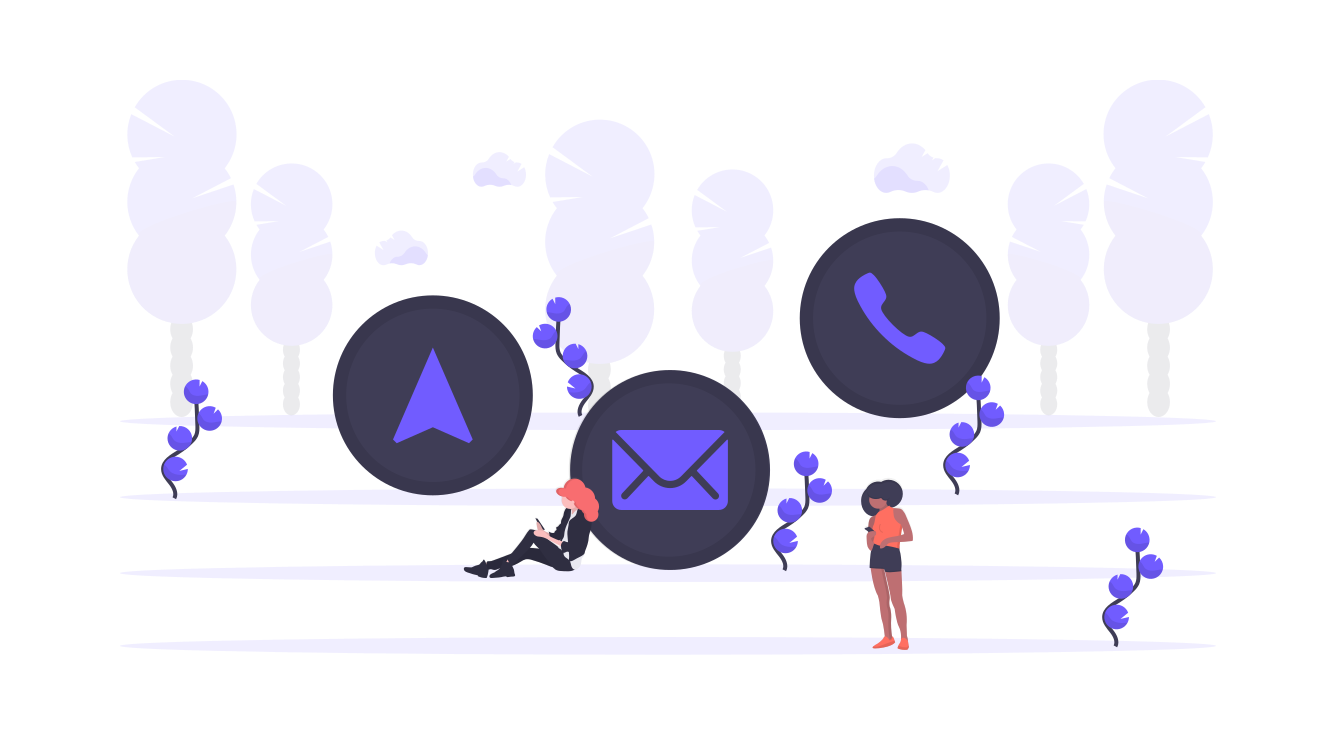
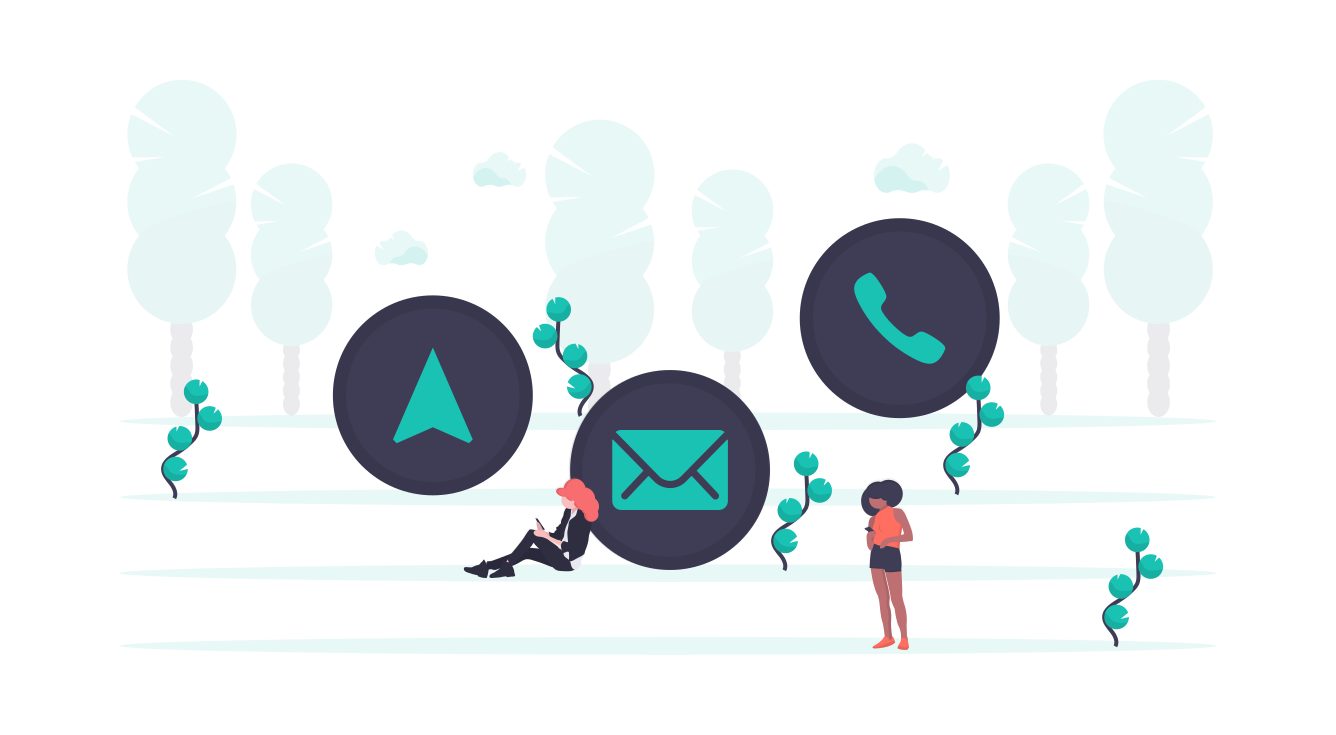
Color update for Telium and Tetra pages

diff --git a/screens/TetraGuide.js b/screens/TetraGuide.js
@@ -135,14 +135,14 @@ export default TetraCodeList = () => {
                 <View style={[styles.itemHeader]}>
                     <View style={styles.itemHeaderLeft}>
                         {
-                            item.is_telium ? <Text style={{ fontSize: 12, fontWeight: '500', color: Colors.fontColorWhite }}>ALSO SUPPORTED BY: </Text> :
-                                <Text style={{ fontSize: 12, fontWeight: '500', color: Colors.colorType1_1 }}>ALSO SUPPORTED BY: </Text>
+                            item.is_telium ? <Text style={{ fontSize: 12, fontWeight: '500', color: Colors.fontColorLightBlack }}>ALSO SUPPORTED BY: </Text> :
+                                <Text style={{ fontSize: 12, fontWeight: '500', color: Colors.colorType5_1 }}>ALSO SUPPORTED BY: </Text>
                         }
                         {/* {
                             item.is_tetra ? <Badge style={[styles.badge, { backgroundColor: Colors.colorType3_2 }]}>TETRA</Badge> : null
                         } */}
                         {
-                            item.is_telium ? <Badge style={[styles.badge, { backgroundColor: Colors.colorType4_2 }]}>TELIUM</Badge> : null
+                            item.is_telium ? <Badge style={[styles.badge, { backgroundColor: Colors.colorType2_1 }]}>TELIUM</Badge> : null
                         }
                     </View>
                     {/* <View style={styles.itemHeaderRight}>
@@ -274,7 +274,12 @@ const styles = StyleSheet.create({
         borderRadius: 10,
         padding: 10,
         margin: 5,
-        backgroundColor: Colors.colorType1_1,
+        backgroundColor: Colors.colorType5_1,
+        shadowColor: '#000',
+        shadowOffset: { width: 1, height: 1 },
+        shadowOpacity: 0.4,
+        shadowRadius: 3,
+        elevation: 5,
     },
     itemHeader: {
         flex: 1,
@@ -311,13 +316,13 @@ const styles = StyleSheet.create({
     },
     itemQuestion: {
         fontSize: 17,
-        color: Colors.white,
+        color: Colors.fontColorLightBlack,
         fontWeight: '700',
         margin: 5,
     },
     itemAnswer: {
         fontSize: 12,
-        color: Colors.fontColorWhite,
+        color: Colors.fontColorLightBlack,
         fontWeight: '700',
         margin: 5,
     },
@@ -333,7 +338,11 @@ const styles = StyleSheet.create({
         borderColor: '#009688',
         borderRadius: 10,
         backgroundColor: Colors.colorType5_1,
-        shadowOpacity: 0,
+        shadowColor: '#000',
+        shadowOffset: { width: 1, height: 1 },
+        shadowOpacity: 0.4,
+        shadowRadius: 3,
+        elevation: 5,
     },
     gridView: {
         width: '100%',

diff --git a/screens/TeliumGuide.js b/screens/TeliumGuide.js
@@ -135,11 +135,11 @@ export default TeliumGuide = () => {
                 <View style={[styles.itemHeader]}>
                     <View style={styles.itemHeaderLeft}>
                         {
-                            item.is_tetra ? <Text style={{ fontSize: 12, fontWeight: '500', color: Colors.fontColorWhite }}>ALSO SUPPORTED BY: </Text> :
-                                <Text style={{ fontSize: 12, fontWeight: '500', color: Colors.colorType2_1 }}>ALSO SUPPORTED BY: </Text>
+                            item.is_tetra ? <Text style={{ fontSize: 12, fontWeight: '500', color: Colors.fontColorLightBlack }}>ALSO SUPPORTED BY: </Text> :
+                                <Text style={{ fontSize: 12, fontWeight: '500', color: Colors.colorType5_1 }}>ALSO SUPPORTED BY: </Text>
                         }
                         {
-                            item.is_tetra ? <Badge style={[styles.badge, { backgroundColor: Colors.colorType1_2 }]}>TETRA</Badge> : null
+                            item.is_tetra ? <Badge style={[styles.badge, { backgroundColor: Colors.colorType1_1 }]}>TETRA</Badge> : null
                         }
                         {/* {
                             item.is_telium ? <Badge style={[styles.badge, { backgroundColor: Colors.colorType4_2 }]}>TELIUM</Badge> : null
@@ -274,7 +274,12 @@ const styles = StyleSheet.create({
         borderRadius: 10,
         padding: 10,
         margin: 5,
-        backgroundColor: Colors.colorType2_1,
+        backgroundColor: Colors.colorType5_1,
+        shadowColor: '#000',
+        shadowOffset: { width: 1, height: 1 },
+        shadowOpacity: 0.4,
+        shadowRadius: 3,
+        elevation: 5,
     },
     itemHeader: {
         flex: 1,
@@ -311,13 +316,13 @@ const styles = StyleSheet.create({
     },
     itemQuestion: {
         fontSize: 17,
-        color: Colors.white,
+        color: Colors.fontColorLightBlack,
         fontWeight: '700',
         margin: 5,
     },
     itemAnswer: {
         fontSize: 12,
-        color: Colors.fontColorWhite,
+        color: Colors.fontColorLightBlack,
         fontWeight: '700',
         margin: 5,
     },
@@ -333,7 +338,11 @@ const styles = StyleSheet.create({
         borderColor: '#009688',
         borderRadius: 10,
         backgroundColor: Colors.colorType5_1,
-        shadowOpacity: 0,
+        shadowColor: '#000',
+        shadowOffset: { width: 1, height: 1 },
+        shadowOpacity: 0.4,
+        shadowRadius: 3,
+        elevation: 5,
     },
     gridView: {
         width: '100%',

diff --git a/screens/Contact.js b/screens/Contact.js
@@ -123,7 +123,7 @@ const styles = StyleSheet.create({
     },
     cardEmail: {
         height: 70,
-        backgroundColor: Colors.colorType1_1,
+        backgroundColor: Colors.colorType3_2,
         marginTop: 50,
         marginBottom: 50,
         marginRight: 100,
@@ -137,7 +137,7 @@ const styles = StyleSheet.create({
     },
     cardPhone: {
         height: 70,
-        backgroundColor: Colors.colorType1_1,
+        backgroundColor: Colors.colorType3_2,
         marginBottom: 100,
         marginLeft: 100,
         borderTopLeftRadius: 10,

diff --git a/config/Colors.js b/config/Colors.js
@@ -33,7 +33,7 @@ export default {
     colorType4_2: '#567FD5',
     colorType4_3: '#7588D4',
 
-    colorType5_1: '#9A9FF4',
+    colorType5_1: '#FFFFFF',
 
     buttonBody: '#8970FE',
     buttonFont: '#F7F3FD',
